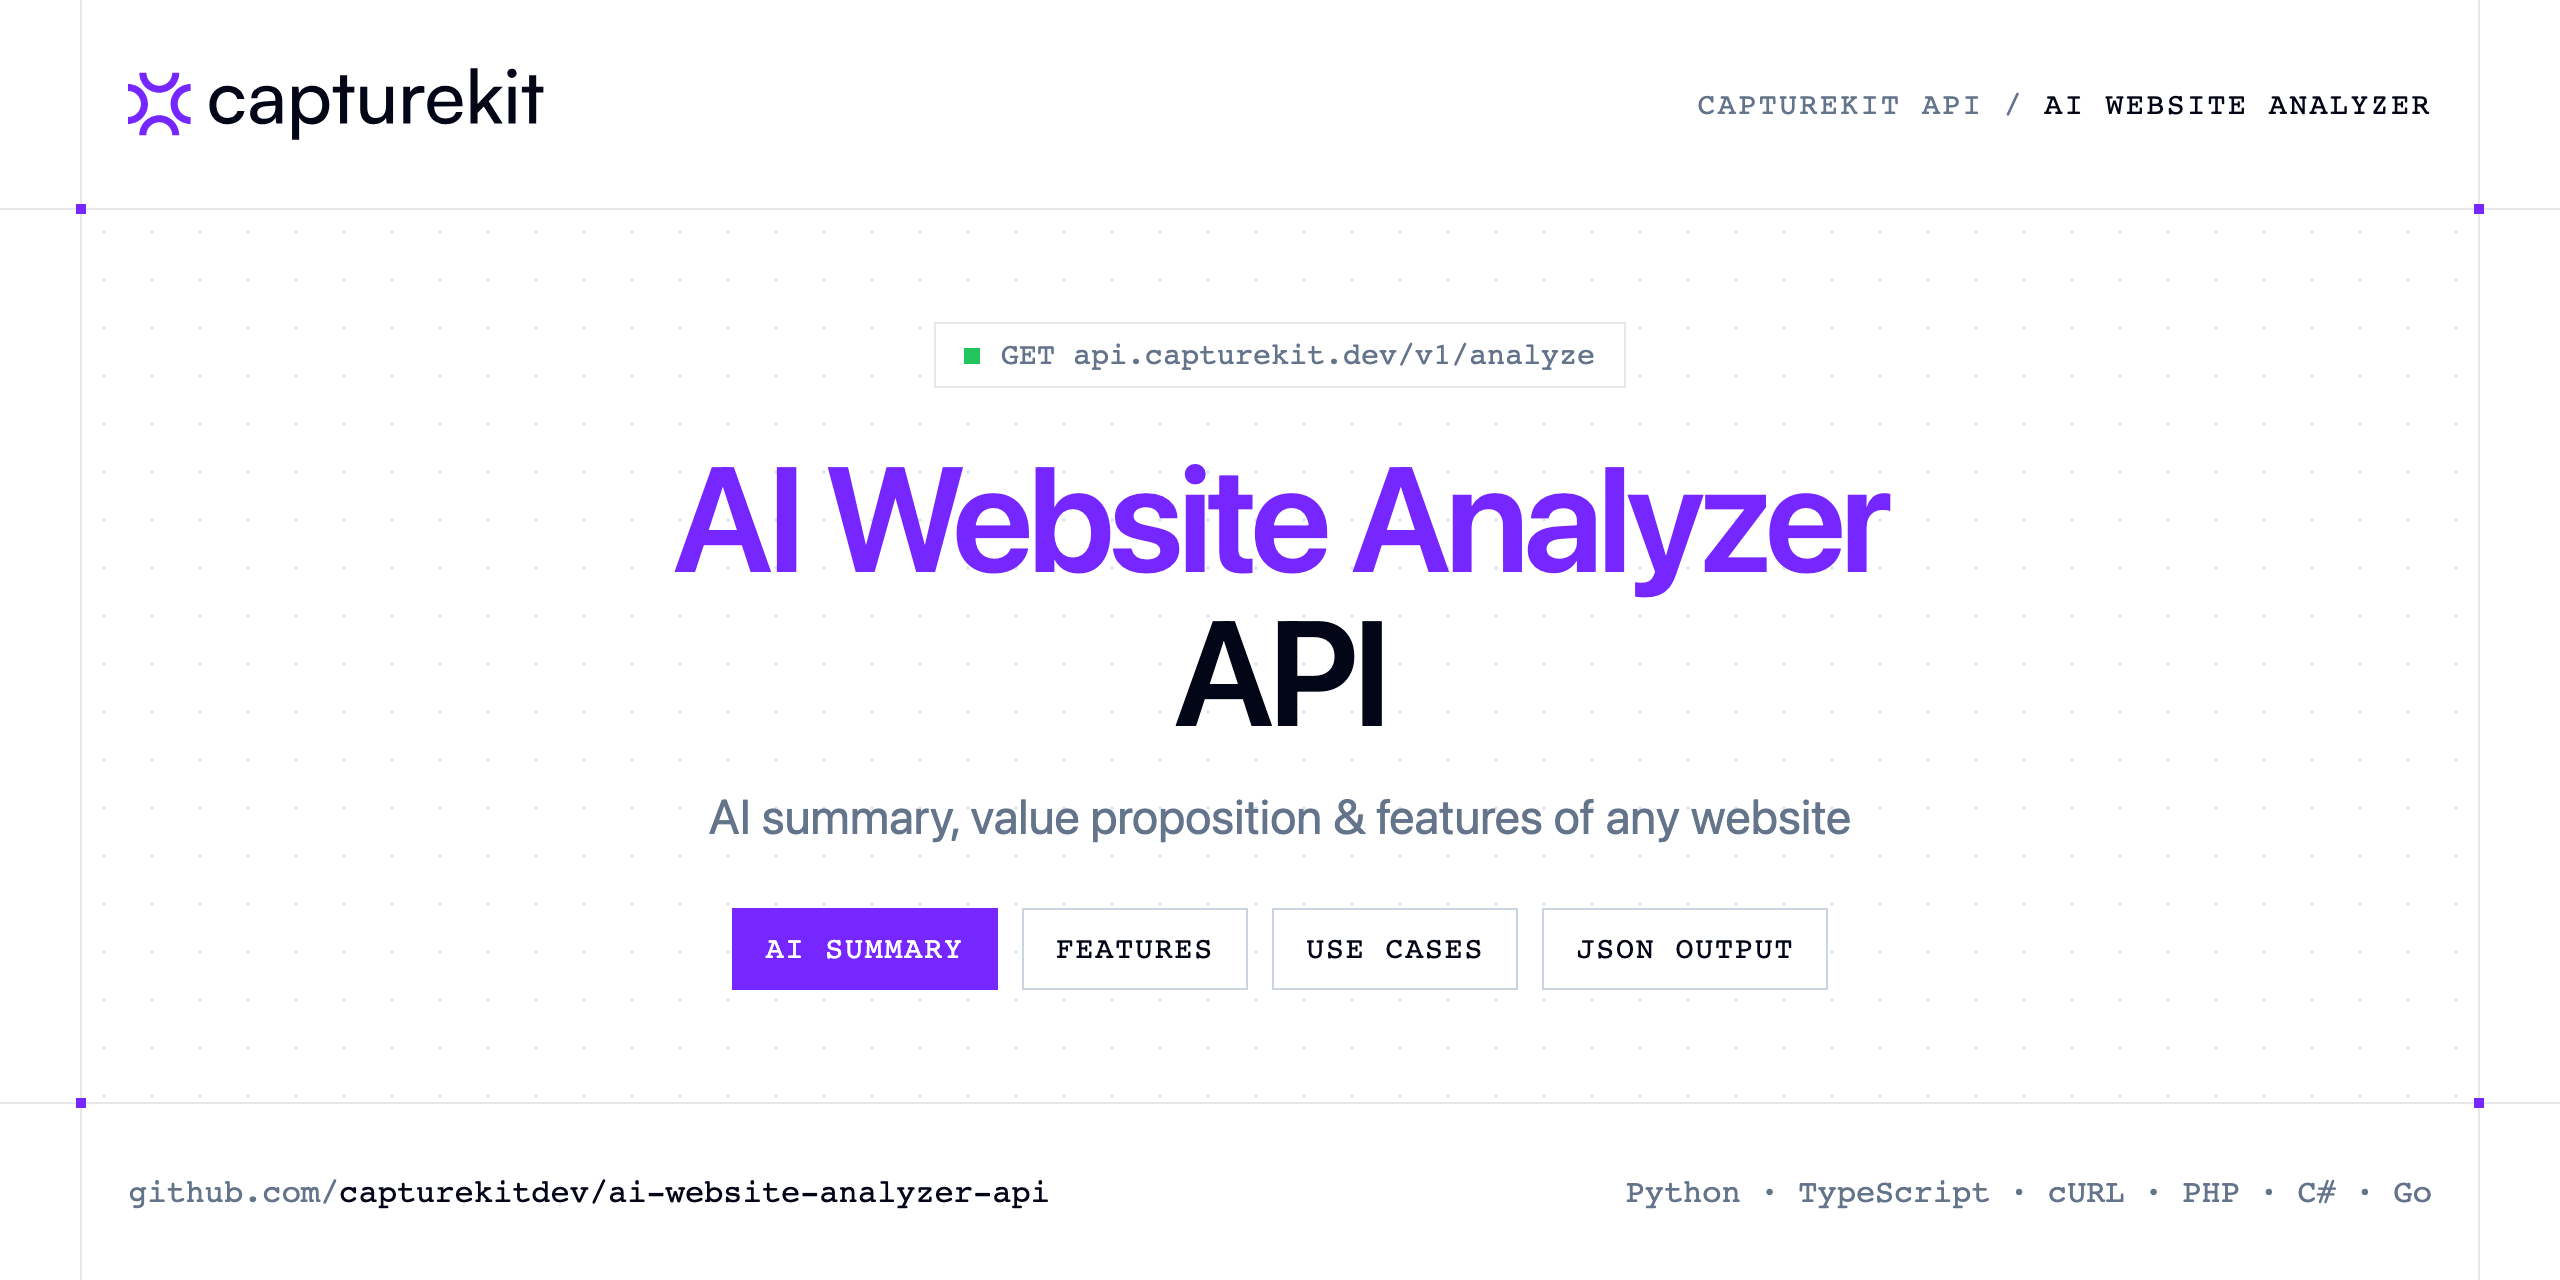
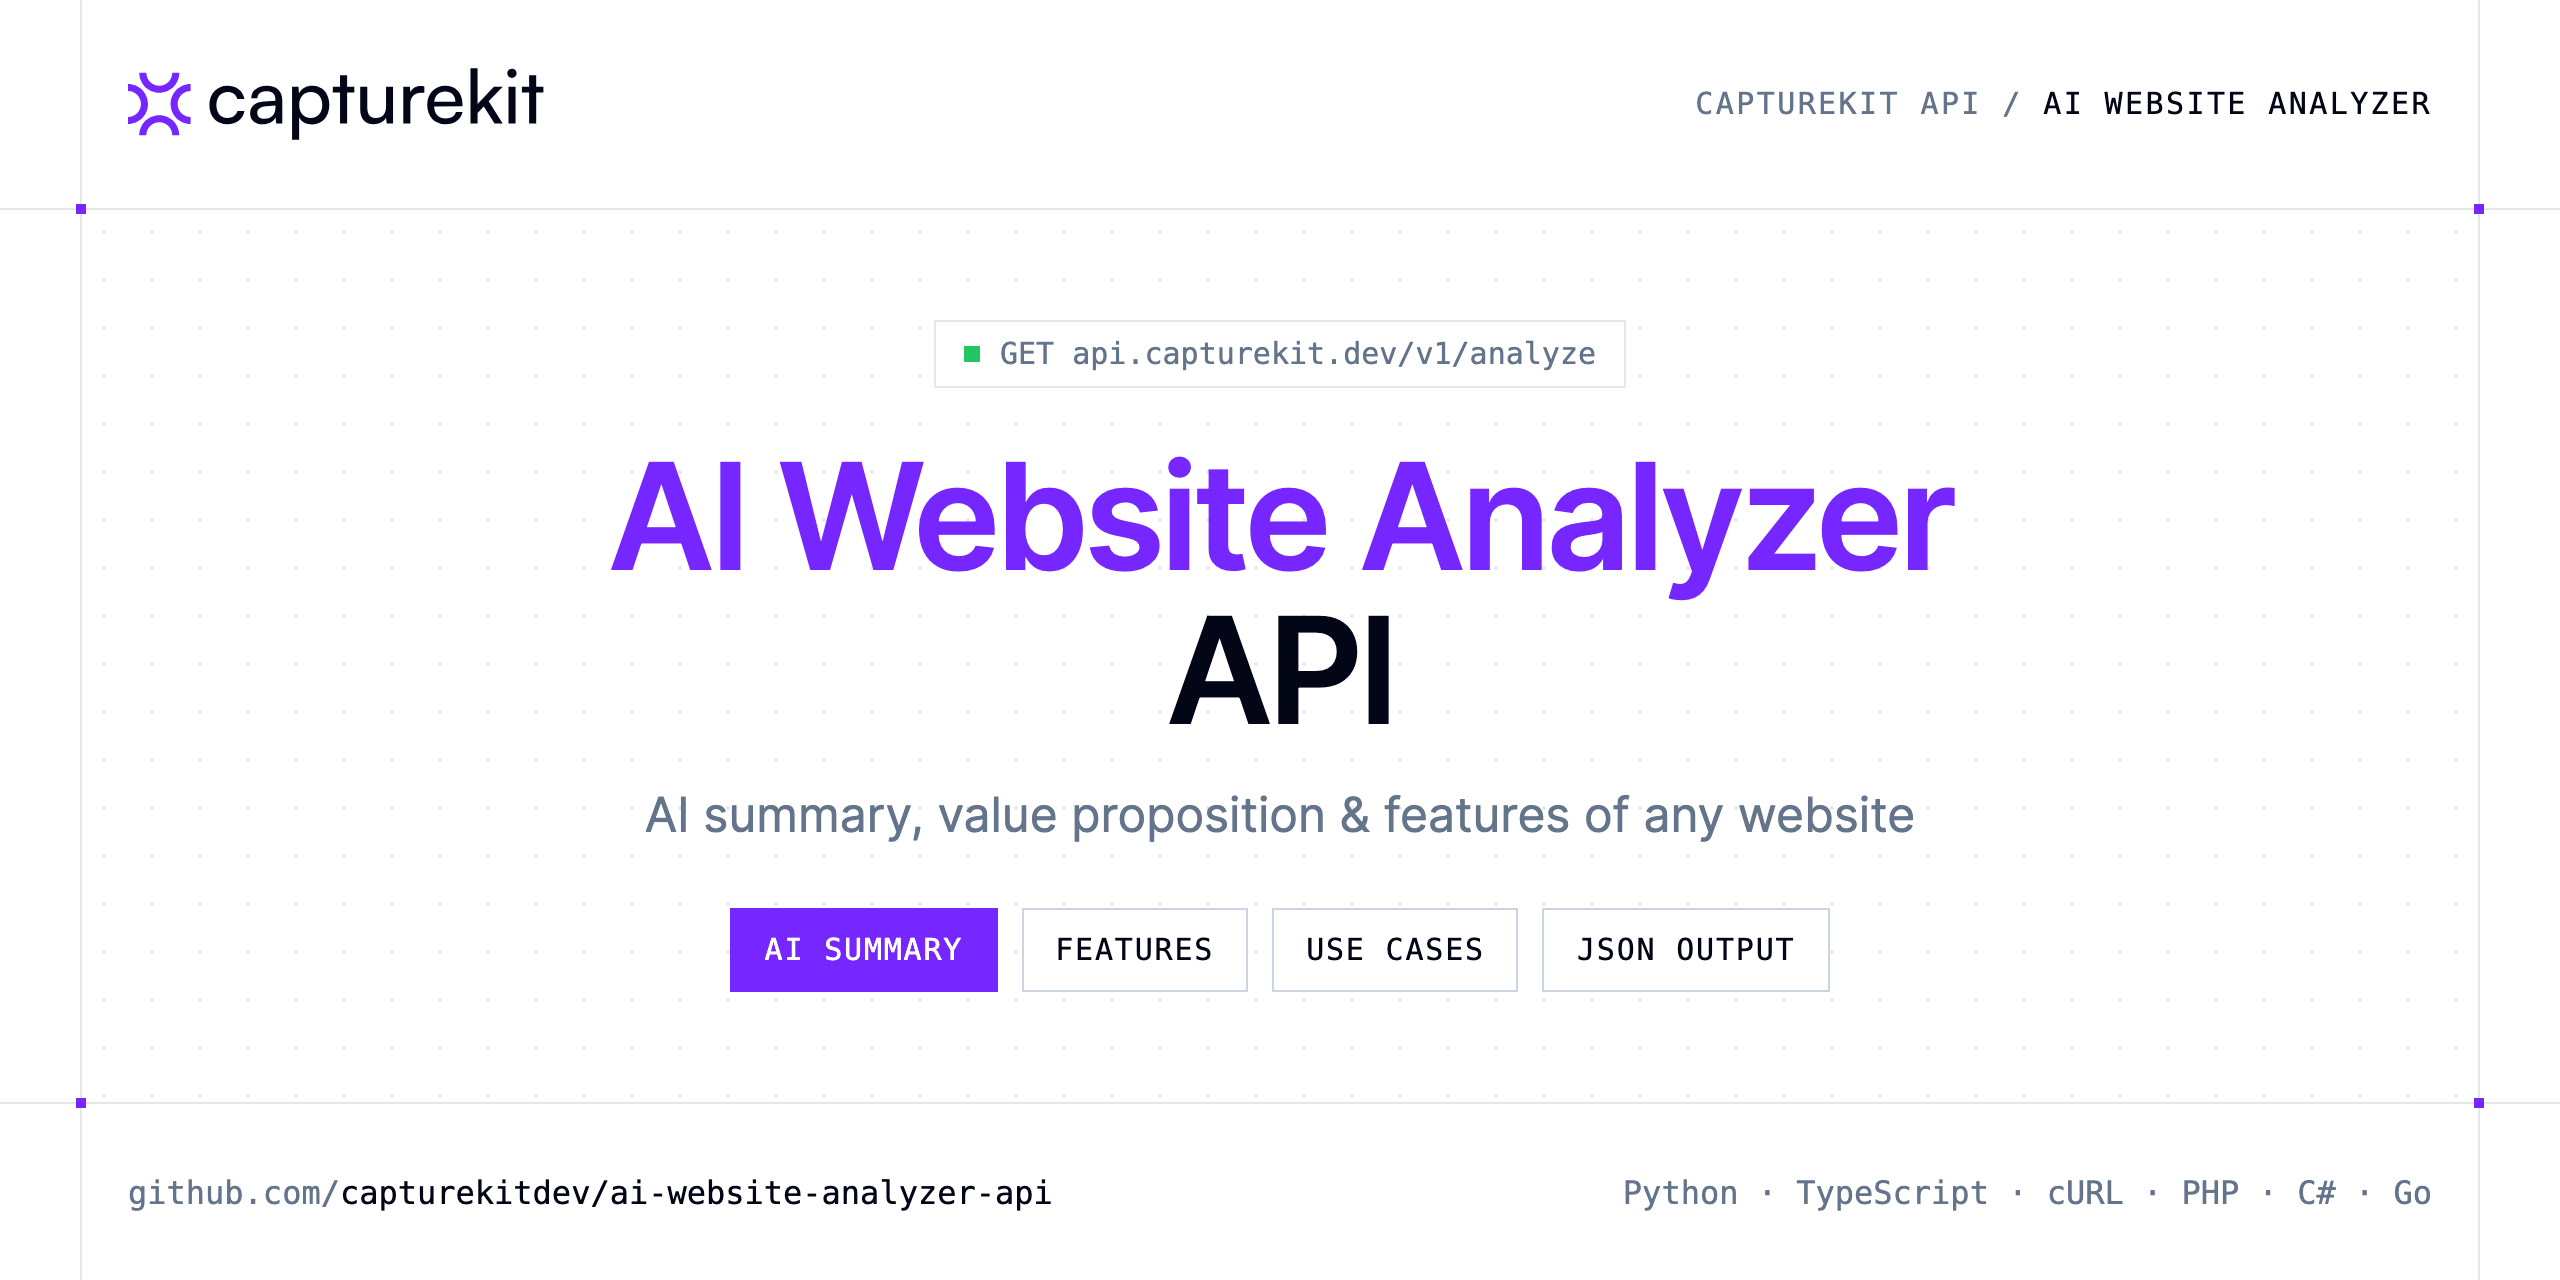
Update AI Website Analyzer API examples and docs

diff --git a/README.md b/README.md
@@ -201,7 +201,7 @@ Any language that can make an HTTP request. This README shows Python and TypeScr
 
 ## Related repositories
 
-- [Screenshot API](https://github.com/capturekitdev/screenshot-api)
+- [Screenshot API](https://github.com/capturekitdev/website-screenshot-api)
 - [Full Page Screenshot API](https://github.com/capturekitdev/full-page-screenshot-api)
 - [Website to PDF API](https://github.com/capturekitdev/website-to-pdf-api)
 - [Mobile Screenshot API](https://github.com/capturekitdev/mobile-screenshot-api)
